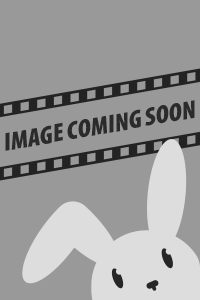
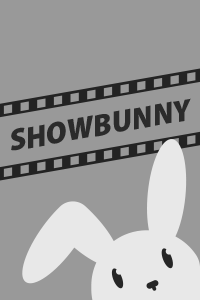
updating text, adding dialog placeholder

Changed region(s): [[0.0, 0.33, 0.99, 0.51]]

diff --git a/kittysan.js b/kittysan.js
@@ -253,7 +253,7 @@ class KittySan {
         .catch(err => console.error(err));
     }
     // add backdrop
-    this.elements.mediaBackdrop.setAttribute('src', result.backdrop_path ? `https://image.tmdb.org/t/p/w500${result.backdrop_path}` : 'http://via.placeholder.com/500x300');
+    this.elements.mediaBackdrop.setAttribute('src', result.backdrop_path ? `https://image.tmdb.org/t/p/w500${result.backdrop_path}` : 'placeholder_wide.png');
     // clear existing media ratings
     while (this.elements.mediaRating.firstChild) {
       this.elements.mediaRating.removeChild(this.elements.mediaRating.firstChild);
